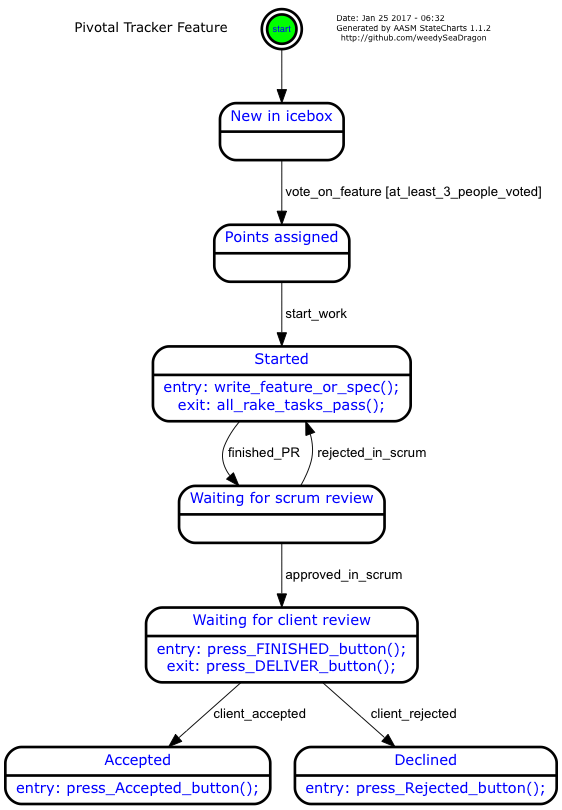
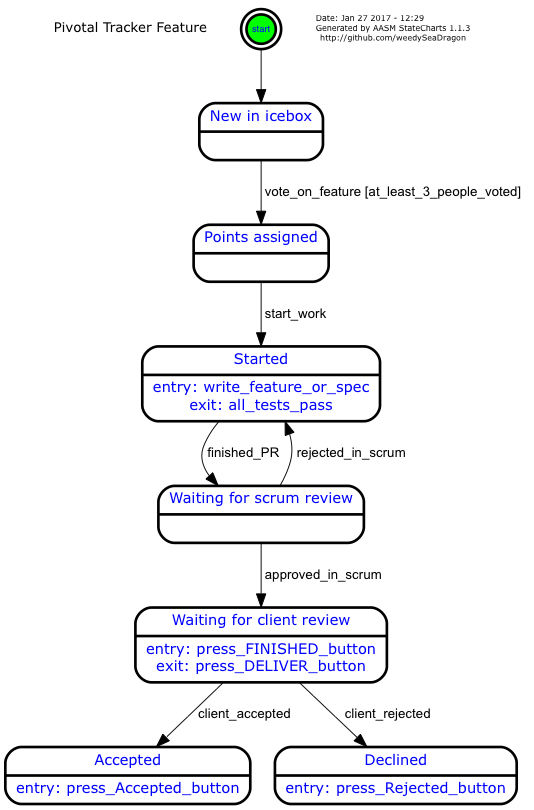
PT feature: changed to all TESTS pass (started: exit); added .rb source file for the diagram

diff --git a/docs/pivotal_tracker_feature.rb b/docs/pivotal_tracker_feature.rb
@@ -1,0 +1,59 @@
+require 'aasm'
+
+class PivotalTrackerFeature < ActiveRecord::Base
+
+  include AASM
+
+  aasm do
+
+    state :new_in_icebox, initial: true
+
+    state :points_assigned
+
+    state :started, enter: :write_feature_or_spec, exit: :all_tests_pass
+    state :waiting_for_scrum_review
+
+    state :waiting_for_client_review, enter: :press_FINISHED_button,  exit: :press_DELIVER_button
+
+    state :accepted, enter: :press_Accepted_button
+    state :declined, enter: :press_Rejected_button
+
+
+    event :vote_on_feature do
+      transitions from: :new_in_icebox, to: :points_assigned, guard: :at_least_3_people_voted
+    end
+
+    event :start_work do
+      transitions from: :points_assigned, to: :started
+
+    end
+
+    event :finished_PR do
+      transitions from: :started, to: :waiting_for_scrum_review
+    end
+
+    event :approved_in_scrum do
+      transitions from: :waiting_for_scrum_review, to: :waiting_for_client_review
+    end
+
+    event :rejected_in_scrum do
+      transitions from: :waiting_for_scrum_review, to: :started
+    end
+
+    event :deliver_to_and_review_with_client do
+
+    end
+
+    event :client_accepted do
+      transitions from: :waiting_for_client_review, to: :accepted
+    end
+
+    event :client_rejected do
+      transitions from: :waiting_for_client_review, to: :declined
+    end
+  end
+
+
+
+
+end
